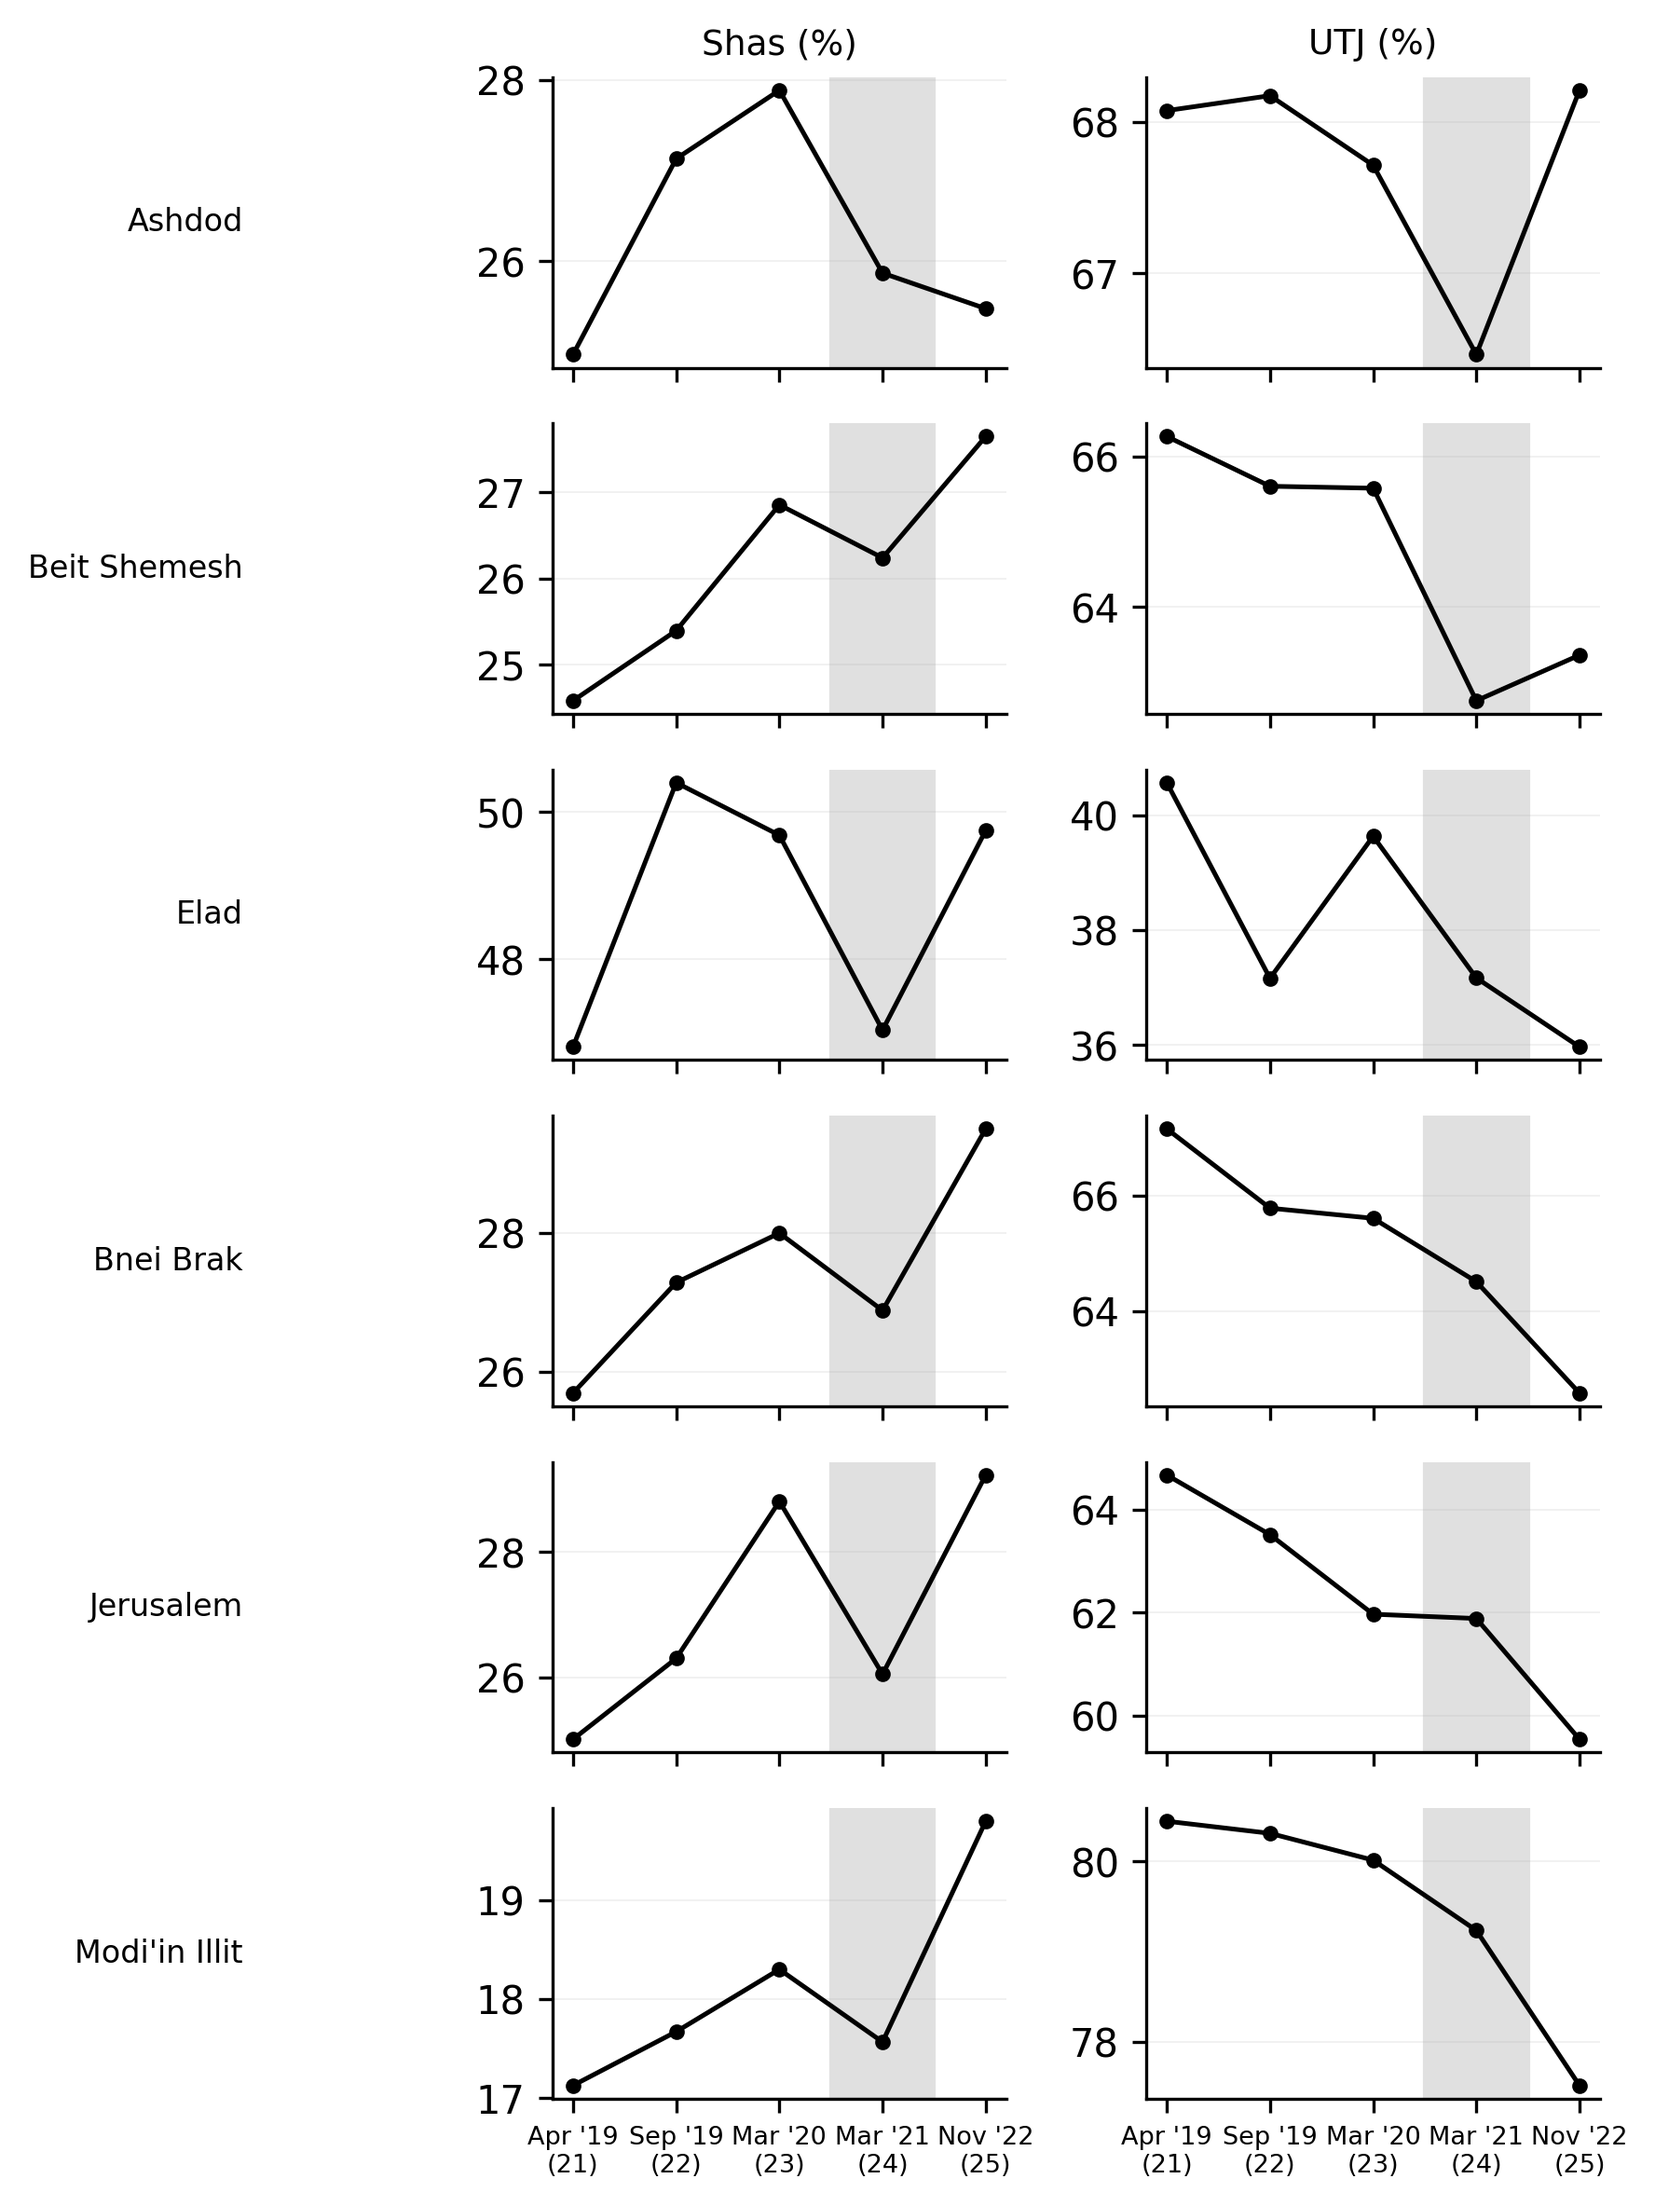
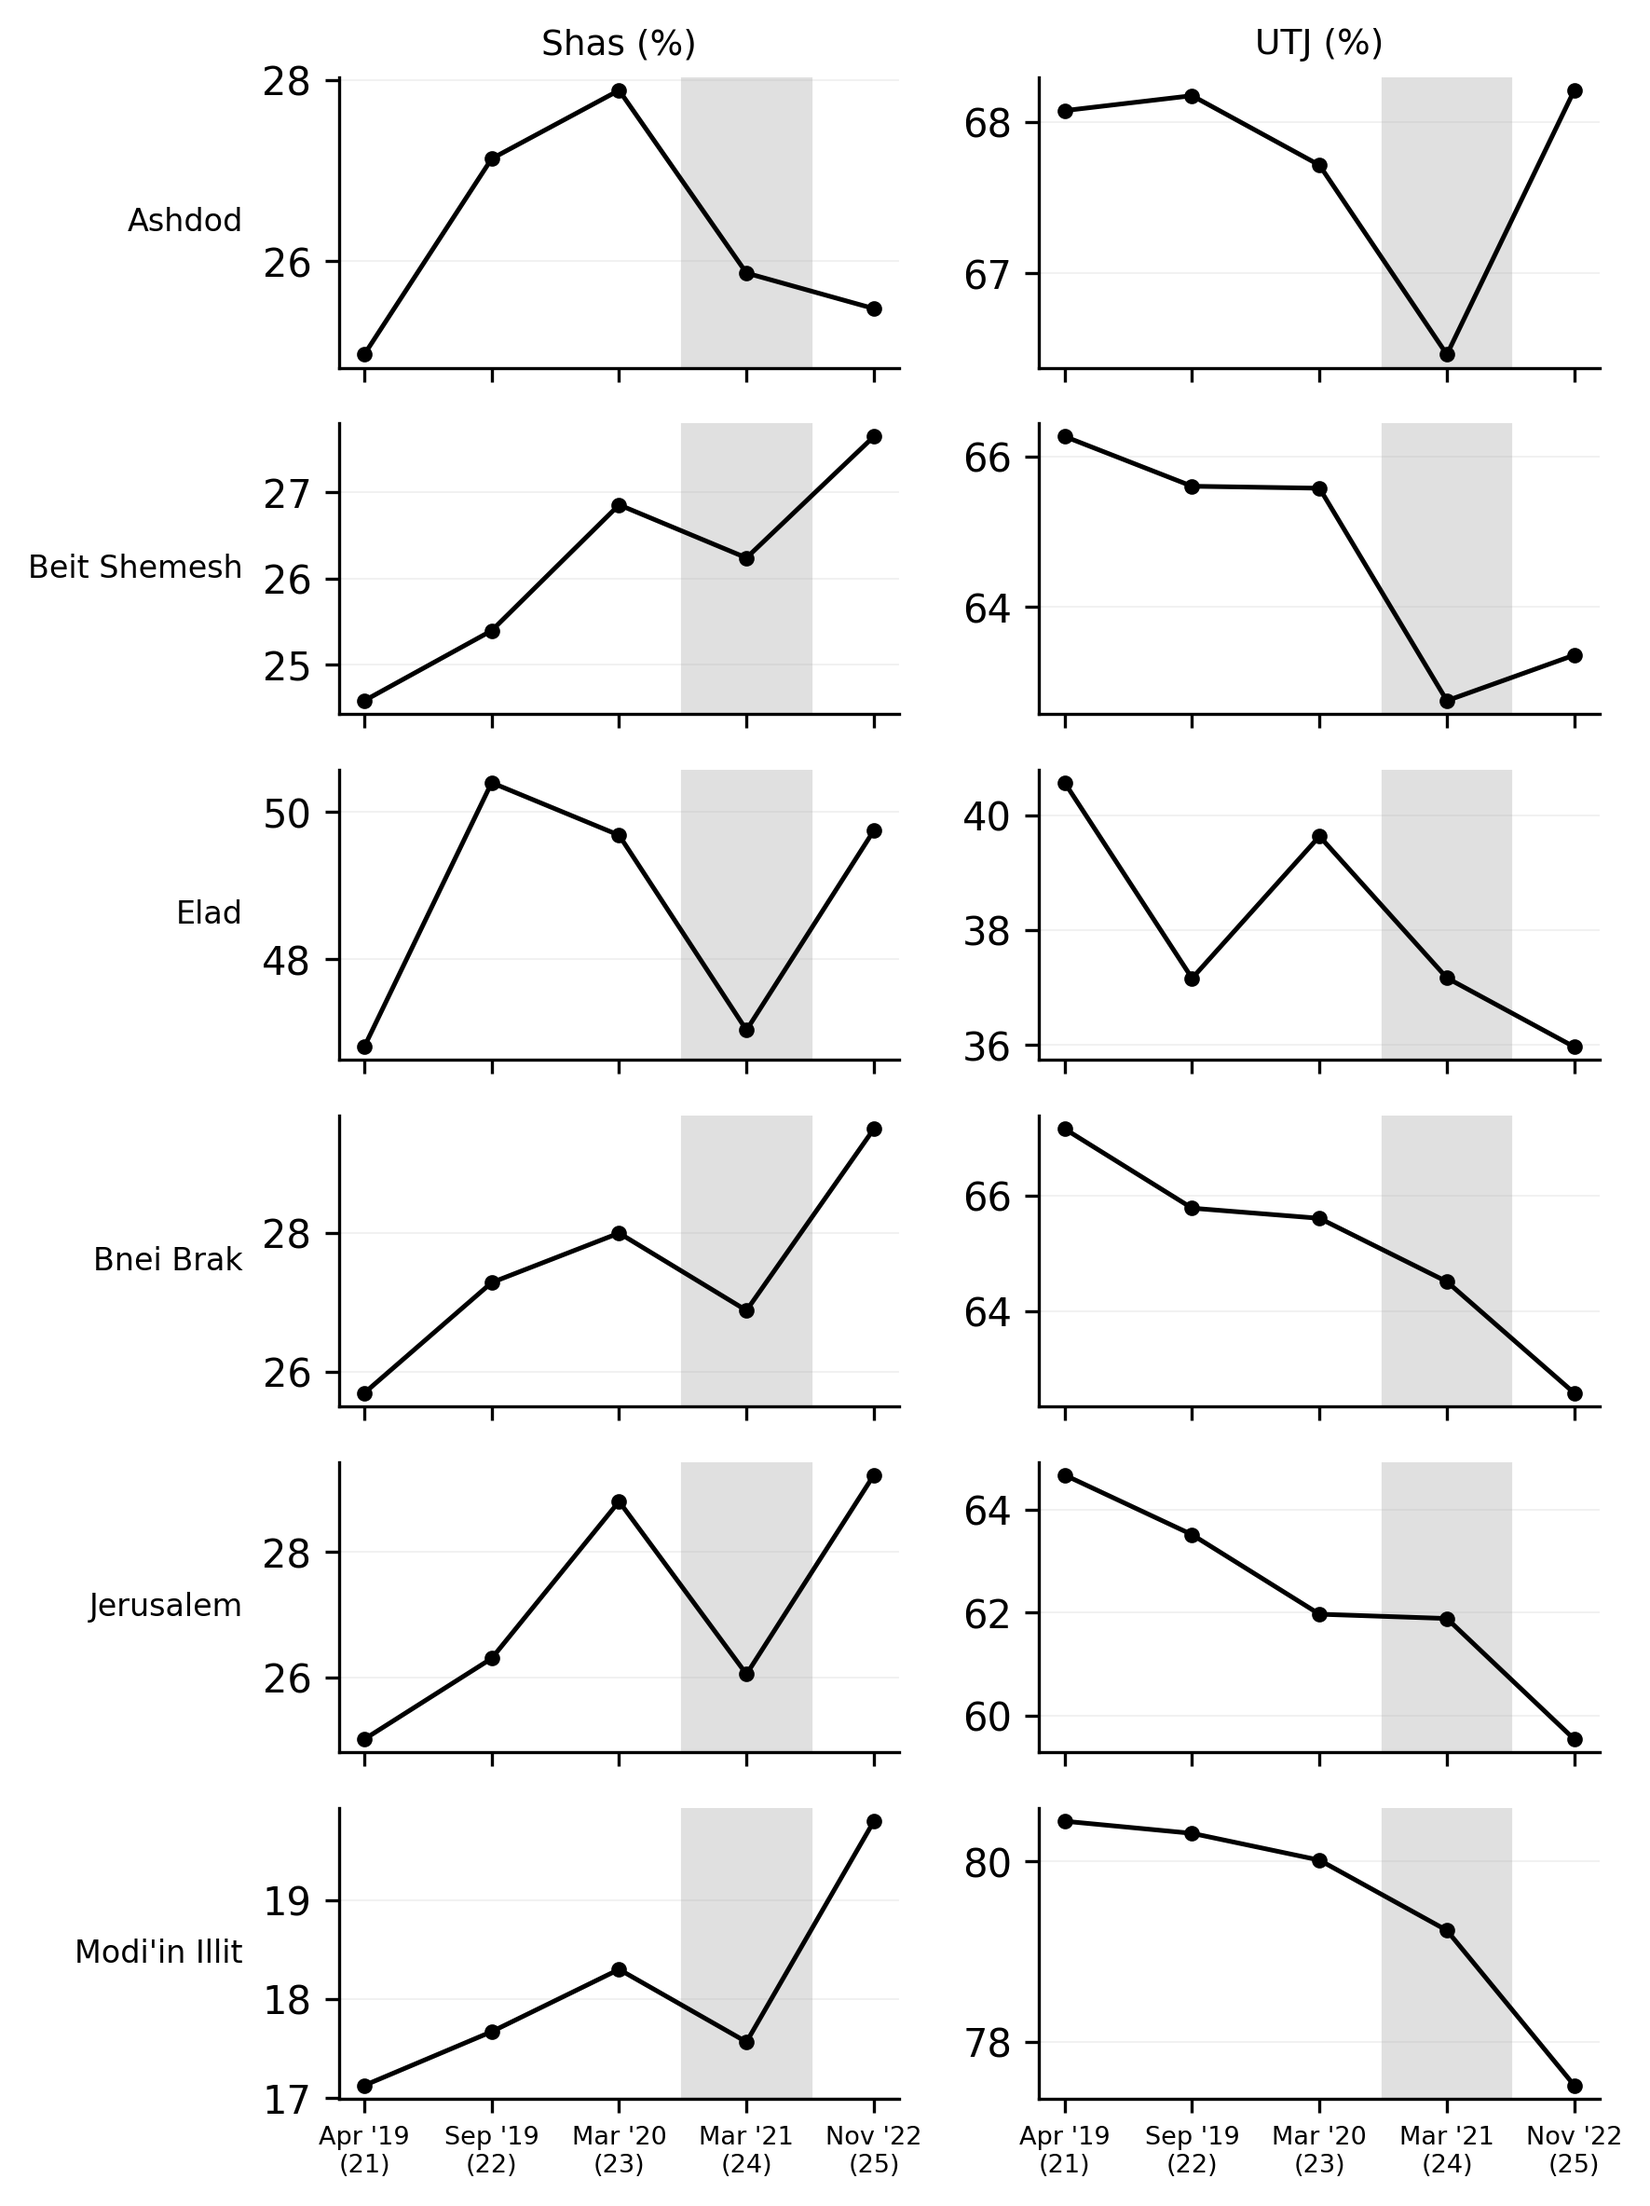
Reduce horizontal padding on city labels in raw vote-share figure

diff --git a/src/plot_raw_vote_shares.py b/src/plot_raw_vote_shares.py
@@ -90,7 +90,7 @@ def plot_raw_vote_shares(data: pd.DataFrame, output_path: Path) -> None:
 
             # City label on left column only
             if col_idx == 0:
-                ax.set_ylabel(city, fontsize=8, rotation=0, labelpad=60,
+                ax.set_ylabel(city, fontsize=8, rotation=0, labelpad=5,
                               ha="right", va="center")
 
             # X-axis labels only on bottom row
